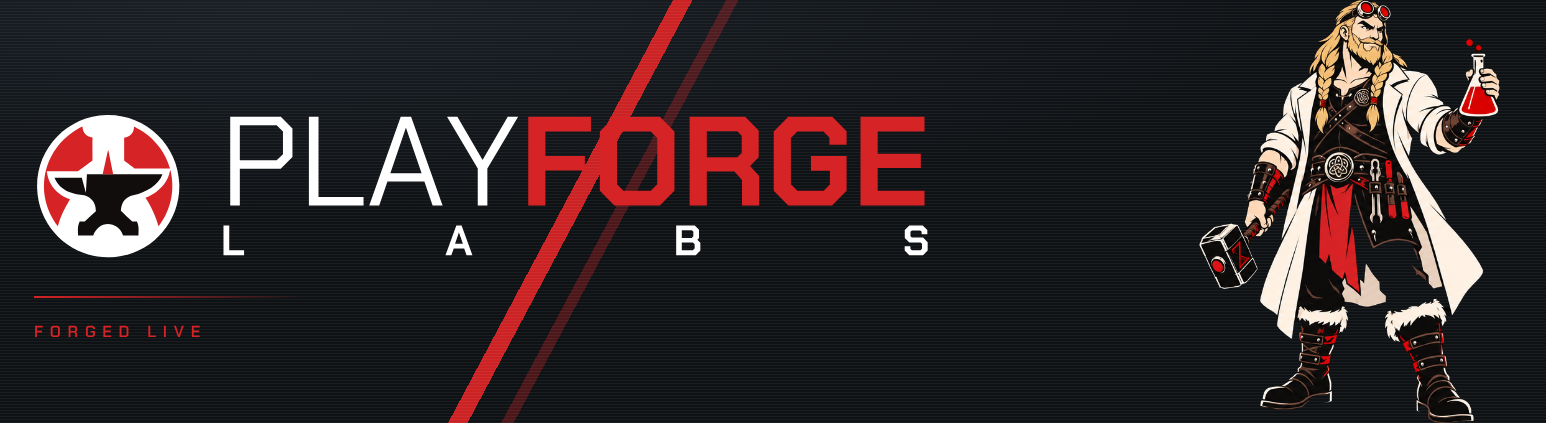
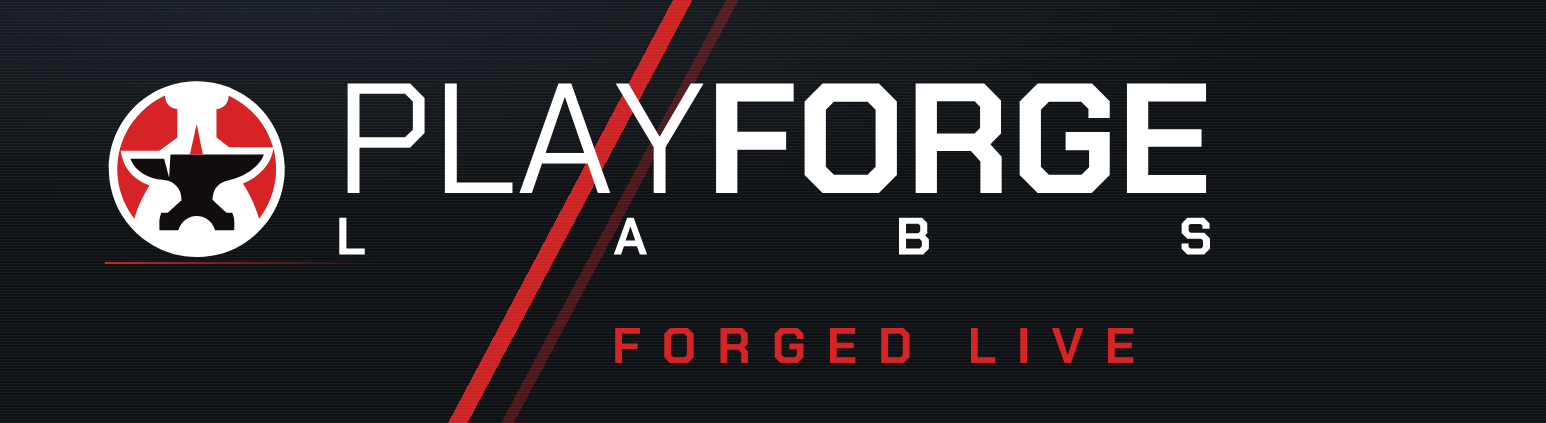
Apply the approved offline layout to every platform screen
All channel screens now derive from one parametric composition taken from
the approved 1920x1080 offline screen: white lockup left, red rule, white
schedule/handle lines, red status label at 62px/700.

16:9 surfaces (twitch-offline, kick-offline, kick-banner) reuse the
reference percentages verbatim. Shorter, wider bands (twitch-banner 2.5:1,
wide-live/wide-offline and the YouTube safe band at 3.65:1) keep the same
parts with a rescaled vertical rhythm, since their height is not
proportional to the reference.

Verified no red text clips on any format; tightest right margin is 105px.

Claude-Session: https://claude.ai/code/session_01VQpikmwb7K7sP9jWmUW1g1

diff --git a/brand/tools/channel.js b/brand/tools/channel.js
@@ -40,30 +40,17 @@ const CSS = `
  .rule{margin-top:5%;margin-bottom:3.5%;height:2px;background:linear-gradient(90deg,#D62325,rgba(214,35,37,0))}
 `;
 
-const SCENES = {
- // Layout rule: two zones, no overlap. Type lives in the left zone,
- // the mascot is contained in the right zone and never crosses in.
- 'twitch-banner': { w:1200, h:480, lock:775, plate:'104%', pad:52, label:'Forged live', ls:15, overlap:true },
- 'twitch-offline': { w:1920, h:1080, custom:`
-   <div class="shard"></div><div class="grain"></div>
-   <div class="lock" style="position:absolute;left:130px;top:40%;
-        transform:translateY(-50%);width:1382px;z-index:3">${LOCKUP_WHITE}</div>
-   <div class="rule" style="position:absolute;left:130px;top:55%;width:330px;margin:0;z-index:3"></div>
-   <div class="ph" style="position:absolute;left:130px;top:59%;font-size:34px;line-height:1.7;
-        color:#FFFFFF;z-index:3">
-     <div>PLACEHOLDER &mdash; your schedule here</div>
-     <div>PLACEHOLDER &mdash; @yourhandle</div>
-   </div>
-   <div class="label" style="position:absolute;left:760px;top:72%;font-size:62px;font-weight:700;z-index:3">Currently offline</div>` },
- 'kick-banner':   { w:1920, h:1080, lock:1240, plate:'97%', pad:130, label:'Forged live', ls:28, overlap:true },
- 'kick-offline':  { w:1920, h:1080, lock:1240, plate:'97%', pad:130, label:'Stream ended', ls:28, overlap:true },
-};
-
-/* YouTube: 2560x1440 upload, but only a ~1546x423 centred band shows on every
-   device. All content lives inside that band. */
 const YT = { w:2560, h:1440, safeW:1546, safeH:423 };
-
 const PANELS = ['About','Schedule','Rules','Specs','Commands','Support'];
+
+const SCENES = {
+ 'twitch-offline': { w:1920, h:1080, custom:null, fn:s => screen16('Currently offline', true, s.w, s.h) },
+ 'kick-offline':   { w:1920, h:1080, fn:s => screen16('Stream ended', true, s.w, s.h) },
+ 'kick-banner':    { w:1920, h:1080, fn:s => screen16('Forged live', false, s.w, s.h) },
+ 'twitch-banner':  { w:1200, h:480,  fn:s => screenWide('Forged live', s.w, s.h) },
+ 'wide-live':      { w:1546, h:423,  fn:s => screenWide('Forged live', s.w, s.h) },
+ 'wide-offline':   { w:1546, h:423,  fn:s => screenWide('Currently offline', s.w, s.h) },
+};
 
 function panelHTML(title, w, h) {
   return `<div class="shard"></div>
@@ -74,6 +61,32 @@ function panelHTML(title, w, h) {
        <div class="rule" style="width:${h*0.62}px;margin-top:${h*0.09}px;margin-bottom:0"></div>
      </div>
    </div>`;
+}
+
+function screen16(label, showPh, w, h) {
+  const k = w / 1920;
+  return `
+   <div class="shard"></div><div class="grain"></div>
+   <div class="lock" style="position:absolute;left:${130*k}px;top:40%;
+        transform:translateY(-50%);width:${1382*k}px;z-index:3">${LOCKUP_WHITE}</div>
+   <div class="rule" style="position:absolute;left:${130*k}px;top:55%;width:${330*k}px;margin:0;z-index:3"></div>
+   ${showPh ? `<div class="ph" style="position:absolute;left:${130*k}px;top:59%;
+        font-size:${34*k}px;line-height:1.7;color:#FFFFFF;z-index:3">
+     <div>PLACEHOLDER &mdash; your schedule here</div>
+     <div>PLACEHOLDER &mdash; @yourhandle</div></div>` : ''}
+   <div class="label" style="position:absolute;left:${760*k}px;top:72%;
+        font-size:${62*k}px;font-weight:700;z-index:3">${label}</div>`;
+}
+
+function screenWide(label, w, h) {
+  const k = w / 1920;
+  return `
+   <div class="shard"></div><div class="grain"></div>
+   <div class="lock" style="position:absolute;left:${130*k}px;top:40%;
+        transform:translateY(-50%);width:${1382*k}px;z-index:3">${LOCKUP_WHITE}</div>
+   <div class="rule" style="position:absolute;left:${130*k}px;top:62%;width:${330*k}px;margin:0;z-index:3"></div>
+   <div class="label" style="position:absolute;left:${760*k}px;top:74%;
+        font-size:${62*k}px;font-weight:700;z-index:3">${label}</div>`;
 }
 
 function overlap(s) {
@@ -107,29 +120,8 @@ const EXTRA = {
    <div class="shard"></div><div class="grain"></div>
    <div style="position:absolute;left:50%;top:50%;transform:translate(-50%,-50%);
         width:${YT.safeW}px;height:${YT.safeH}px;overflow:hidden">
-     <img src="${PLATE}" style="position:absolute;right:40px;bottom:0;height:100%;
-          object-fit:contain;object-position:bottom;z-index:1">
-     <div class="lock" style="position:absolute;left:30px;top:46%;
-          transform:translateY(-50%);width:1120px;z-index:3">${LOCKUP}</div>
-     <div class="rule" style="position:absolute;left:30px;top:70%;width:300px;margin:0;z-index:3"></div>
-     <div class="label" style="position:absolute;left:30px;top:76%;font-size:17px;z-index:3">Forged live</div>
+     ${screenWide('Forged live', YT.safeW, YT.safeH)}
    </div>` },
- 'wide-live': { w:1546, h:423, custom:`
-   <div class="shard"></div><div class="grain"></div>
-   <img src="${PLATE}" style="position:absolute;right:46px;bottom:0;height:100%;
-        object-fit:contain;object-position:bottom;z-index:1">
-   <div class="lock" style="position:absolute;left:34px;top:44%;
-        transform:translateY(-50%);width:900px;z-index:3">${LOCKUP}</div>
-   <div class="rule" style="position:absolute;left:34px;top:70%;width:270px;margin:0;z-index:3"></div>
-   <div class="label" style="position:absolute;left:34px;top:76%;font-size:16px;z-index:3">Forged live</div>` },
- 'wide-offline': { w:1546, h:423, custom:`
-   <div class="shard"></div><div class="grain"></div>
-   <img src="${PLATE}" style="position:absolute;right:46px;bottom:0;height:100%;
-        object-fit:contain;object-position:bottom;z-index:1">
-   <div class="lock" style="position:absolute;left:34px;top:44%;
-        transform:translateY(-50%);width:900px;z-index:3">${LOCKUP}</div>
-   <div class="rule" style="position:absolute;left:34px;top:70%;width:270px;margin:0;z-index:3"></div>
-   <div class="label" style="position:absolute;left:34px;top:76%;font-size:16px;z-index:3">Currently offline</div>` },
  'youtube-thumbnail-template': { w:1280, h:720, custom:`
    <div class="shard"></div><div class="grain"></div>
    <div style="position:absolute;inset:0;border:3px dashed rgba(255,255,255,.18)"></div>
@@ -156,7 +148,7 @@ const EXTRA = {
   for (const [name, s] of Object.entries(ALL)) {
     if (only && name !== only) continue;
     const page = await browser.newPage({ viewport: { width: s.w, height: s.h }, deviceScaleFactor: 1 });
-    const inner = s.custom !== undefined ? s.custom : (s.overlap ? overlap(s) : render(s));
+    const inner = s.fn ? s.fn(s) : (s.custom !== undefined && s.custom !== null ? s.custom : (s.overlap ? overlap(s) : render(s)));
     await page.setContent(`<style>${CSS}</style><div class="stage" style="width:${s.w}px;height:${s.h}px">${inner}</div>`);
     await page.evaluate(() => document.fonts.ready);
     await page.waitForTimeout(900);
